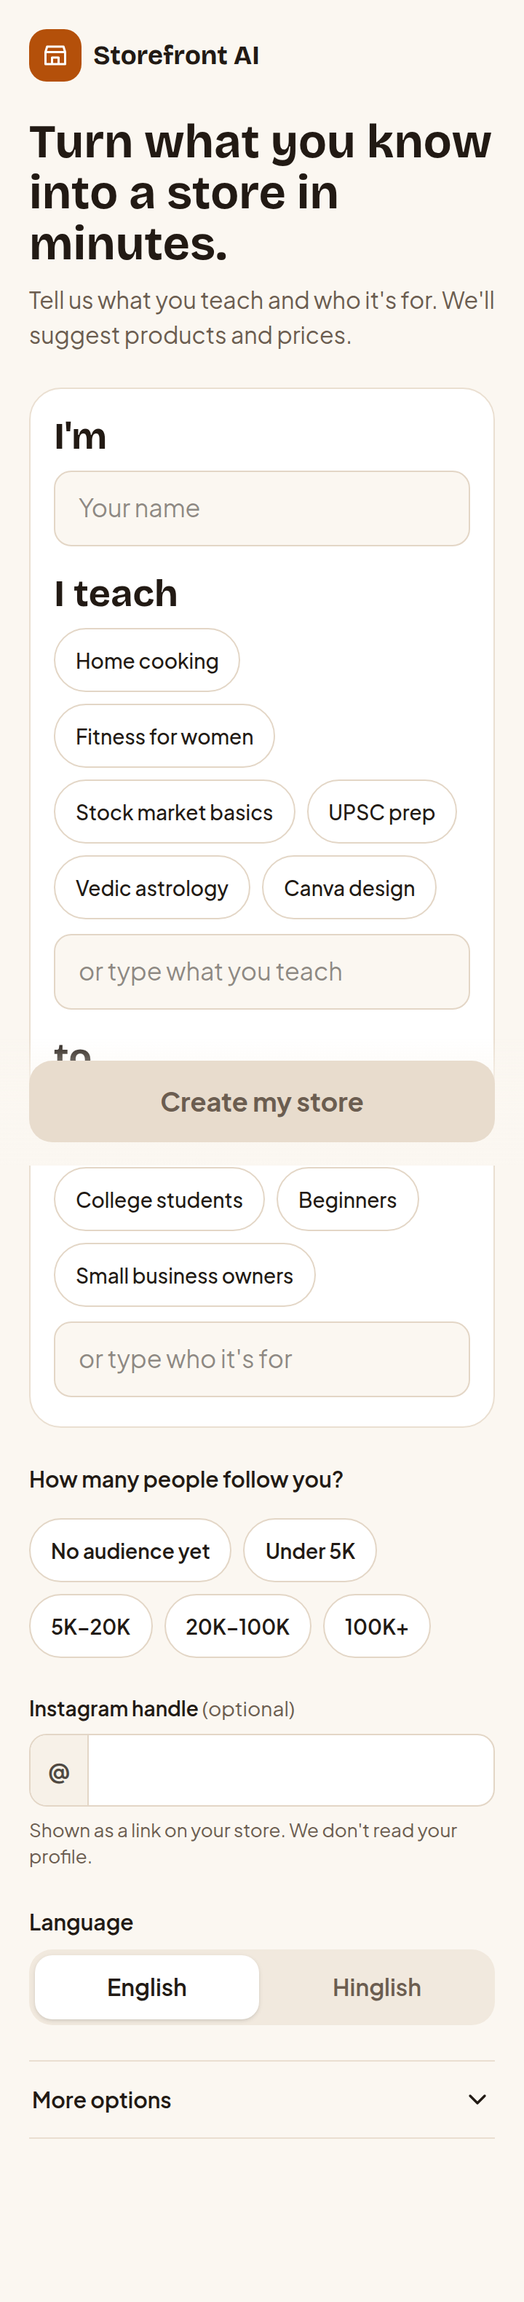
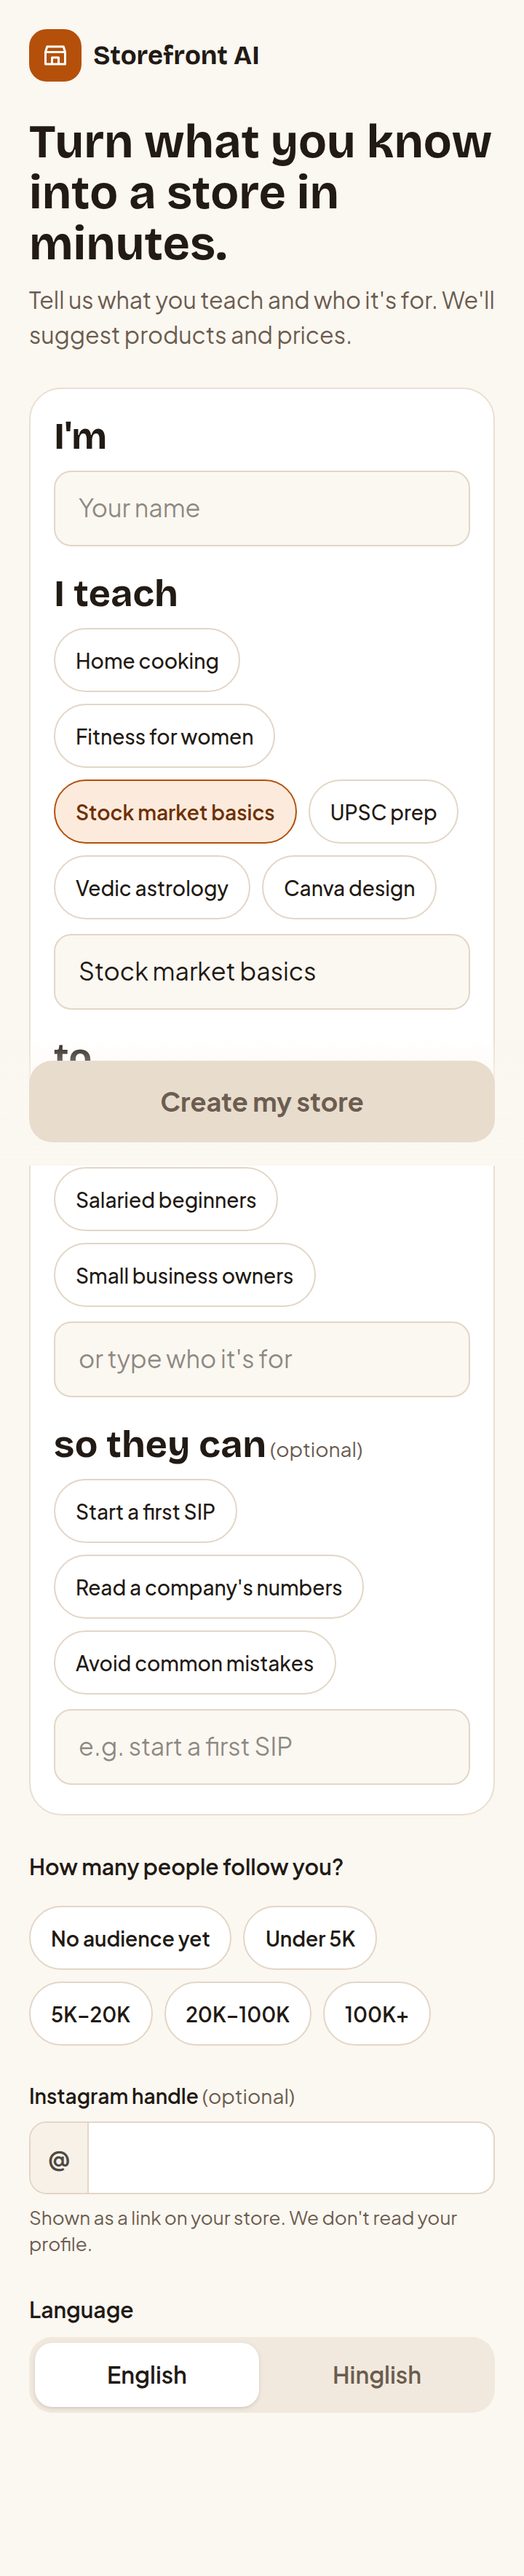
docs: BUILD_LOG final fixes (22 Nov); updated 360 px input screenshot

diff --git a/BUILD_LOG.md b/BUILD_LOG.md
@@ -4,6 +4,23 @@ Per slice: what was built, problems hit, decisions made, how AI tools were used.
 
 ---
 
+## 🛠 Final fixes — Sun 22 Nov (after round 5)
+Every change was deployed to production and checked there. Production is left at **0 stores, 0 events**.
+
+| Commit | Fix | Verified |
+|---|---|---|
+| `d86a3dd` | **E8:** a tierReason never fails an attempt for length. It is trimmed to ≤ 200 chars (whole sentences, else a word boundary + full stop); Zod cap 160 → 200. Other fields keep the 15% rule. | unit tests; core gate **43/43** incl. E8 |
+| env only | **Model order swapped** (3.5 Flash Lite returned 503 on most calls today): `GEMINI_MODEL=gemini-3.1-flash-lite`, `GEMINI_FALLBACK_MODEL=gemini-3.5-flash-lite` in Vercel production, then redeployed | the core gate's store was generated by `gemini-3.1-flash-lite` |
+| `532b8ab` | README model table + `.env.example` match the new order | deploy green |
+| `5f8e823`, `d2311c1` | Input screen: Instagram handle always visible, below the follower chips and outside the sentence card | 360 + 1440 checks; `round3-ui.mjs` 12/12 |
+| `d520c68` | Input screen: "More options" removed; the result is the card's last line **"so they can"** (26 px heading label, small "(optional)", niche-aware chips, placeholder from the niche's first result chip or "e.g. cook dinner in 20 minutes"). Card: I'm → I teach → to → so they can; then followers → Instagram → Language → Create my store. Same in Edit answers; still optional end to end. | 360 px check; `round3-ui.mjs` 12/12 |
+| `fa37a89` | **Stale "Continue your store":** S1 checks remembered stores (`GET /api/stores/<token>`, in parallel, 4 s timeout) and forgets 404s; no banner on a network failure; a dead edit link forgets its token and says "This store doesn't exist anymore. It may have been deleted." + Create a new store (public /s/ copy unchanged) | `qa/scripts/stale-banner.mjs` 3/3; `round3-ui.mjs` 12/12 |
+| `9ed2ba1`, `c5c25d6`, `9dfdd7b` | Updated input screenshots; committed the stale-banner test, the QA harness `qa/scripts/lib.mjs` and its fixture store | — |
+
+Review package: `../storefront-ai-review.zip` made with `git archive` from `HEAD` (committed files only: no `.env.local`, `node_modules` or private links; the only `.env*` is `.env.example`).
+
+---
+
 ## 🛠 Round 5 — Sun 22 Nov, before submission
 Tag `pre-round-5` = state before. Production left at **0 stores, 0 events**.
 
